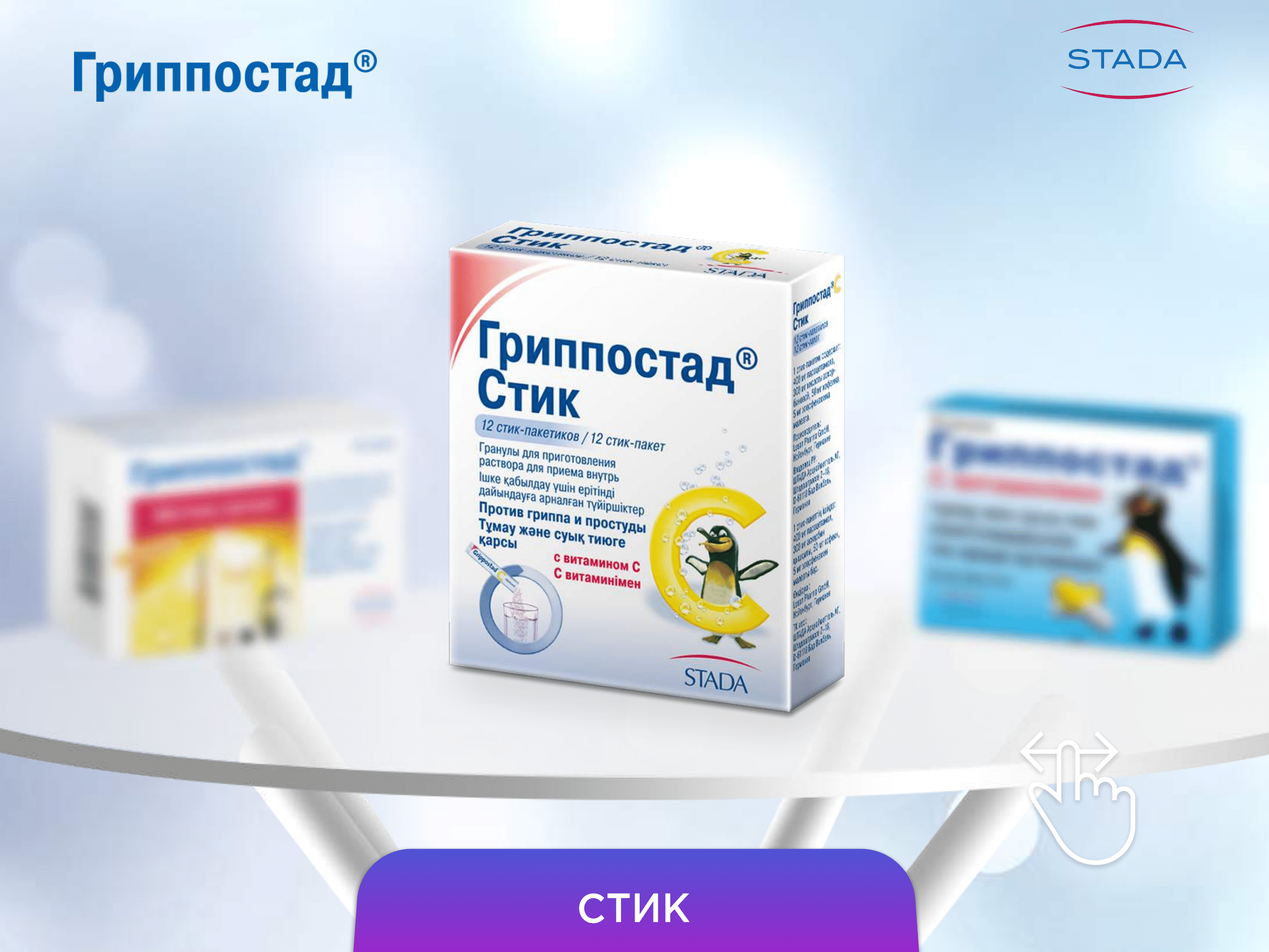
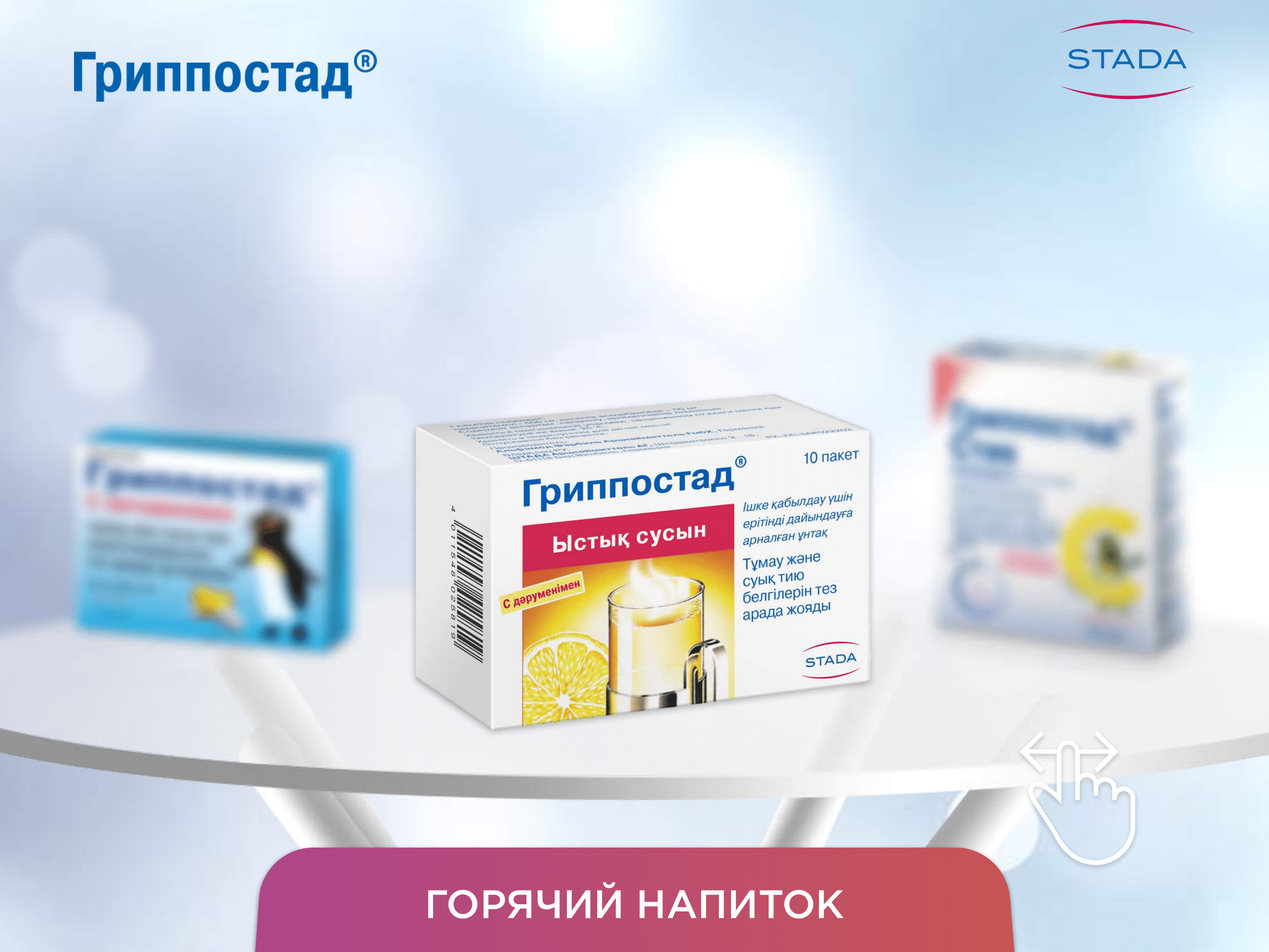
slide-00

Changed region(s): [[0.0, 0.2165, 0.6805, 0.7732], [0.1856, 0.866, 0.8042, 1.0], [0.7114, 0.3402, 0.9898, 0.7113]]

diff --git a/app/scripts/slide-00.js b/app/scripts/slide-00.js
@@ -1,10 +1,59 @@
 /* global cegedim*/
 $(function() {
   var x0 = 0;
+
+  var imgKaps = document.getElementById('imgKaps');
+  var imgSteak = document.getElementById('imgSteak');
+  var imgDrink = document.getElementById('imgDrink');
+
+  var btnKaps = document.getElementById('btnKaps');
+  var btnSteak = document.getElementById('btnSteak');
+  var btnDrink = document.getElementById('btnDrink');
+
   document.addEventListener('touchstart',function (e) {x0 = e.touches["0"].screenX;})
   document.addEventListener('touchmove',function (e) {
     if (x0 <= e.touches["0"].screenX) {
       // your code by swipe
+    }
+  })
+
+  var resetArrs = function() {
+    var arrImgs = document.getElementsByClassName('pack');
+    var arrSliderItems = document.getElementsByClassName('slider__item');
+
+    for (var i=0; i<arrImgs.length; i++) {
+      arrImgs[i].classList.remove('active');
+      arrSliderItems[i].classList.remove('active');
+    }
+  }
+
+  imgKaps.addEventListener('click', function() {
+    if (imgKaps.classList.contains('active')) {
+      cegedim.navigation.go('01_1', 'swipeleft')
+    } else {
+      resetArrs();
+      imgKaps.classList.add('active');
+      btnKaps.classList.add('active');
+    }
+  })
+
+  imgSteak.addEventListener('click', function() {
+    if (imgSteak.classList.contains('active')) {
+      cegedim.navigation.go('07_2', 'swipeleft')
+    } else {
+      resetArrs();
+      imgSteak.classList.add('active');
+      btnSteak.classList.add('active');
+    }
+  })
+
+  imgDrink.addEventListener('click', function() {
+    if (imgDrink.classList.contains('active')) {
+      cegedim.navigation.go('13_3', 'swipeleft')
+    } else {
+      resetArrs();
+      imgDrink.classList.add('active');
+      btnDrink.classList.add('active');
     }
   })
 });

diff --git a/app/styles/slide-00.scss b/app/styles/slide-00.scss
@@ -2,6 +2,108 @@ $slide: 'slide-00';
 @import "_engine";
 
 .#{$slide} {
+  .code {
+    position: relative;
+    height: 100%;
+  }
+  .stada {
+    position: absolute;
+    top: 0;
+    right: 0;
+    height: 100px;
+    width: 183px;
+  }
+
+  .pack {
+    position: absolute;
+
+    &.active {
+      .pack__active {
+        display: block;
+      }
+    }
+
+    img {
+      position: relative;
+    }
+
+    &__active {
+      display: none;
+      height: 60%;
+      width: 90%;
+      border-radius: 50%;
+      background: white;
+      position: absolute;
+      top: 50%;
+      left: 50%;
+      transform: translate(-50%, -50%);
+      box-shadow: 0 0 100px 0 #0062af;
+    }
+
+    &--kaps {
+      width: 224px;
+      top: 342px;
+      left: 59px;
+
+      .pack__active {
+        height: 82%;
+        width: 98%;
+      }
+    }
+
+    &--steak {
+      width: 245px;
+      top: 271px;
+      right: 45px;
+
+      .pack__active {
+        width: 84%;
+        height: 69%;
+      }
+    }
+
+    &--drink {
+      width: 378px;
+      top: 316px;
+      left: 329px;
+
+      .pack__active {
+        height: 79%;
+        width: 96%;
+      }
+    }
+  }
+
+  .slider {
+    height: 85px;
+    width: 100%;
+    position: absolute;
+    bottom: 0;
+    left: 0;
+
+    &__item {
+      position: absolute;
+      top: 0;
+      left: -100%;
+      transition: left 800ms;
+
+      &.active {
+        left: 50%;
+        transform: translateX(-50%);
+      }
+
+      &--kaps {
+        width: 454px;
+      }
+      &--steak {
+        width: 457px;
+      }
+      &--drink {
+        width: 613px;
+      }
+    }
+  }
+
   .header {
     display: none;
   }

diff --git a/app/html/slide-00.html b/app/html/slide-00.html
@@ -6,8 +6,36 @@
 </div>
 
 <div class="code">
-	<span class="ru">русский</span>
-	<span class="az">азер</span>
+	<div
+	class="stada"
+	data-prevent-tap="true"
+	data-popup="popup-id"
+	>
+	</div>
+	<div class="pack pack--kaps" id="imgKaps">
+		<div class="pack__active"></div>
+		<img src="./media/images/slide-00/img_capsules.png" alt="">
+	</div>
+	<div class="pack pack--steak" id="imgSteak">
+		<div class="pack__active"></div>
+		<img src="./media/images/slide-00/img_stic.png" alt="">
+	</div>
+	<div class="pack pack--drink" id="imgDrink">
+		<div class="pack__active"></div>
+		<img src="./media/images/slide-00/img_drink.png" alt="">
+	</div>
+
+	<div class="slider">
+		<div class="slider__item slider__item--kaps" id="btnKaps">
+			<img src="./media/images/slide-00/button_capsules.png" alt="">
+		</div>
+		<div class="slider__item slider__item--steak" id="btnSteak">
+			<img src="./media/images/slide-00/button_stic.png" alt="">
+		</div>
+		<div class="slider__item slider__item--drink" id="btnDrink">
+			<img src="./media/images/slide-00/button_drink.png" alt="">
+		</div>
+	</div>
 </div>
 
 <!-- video pop-up -->
